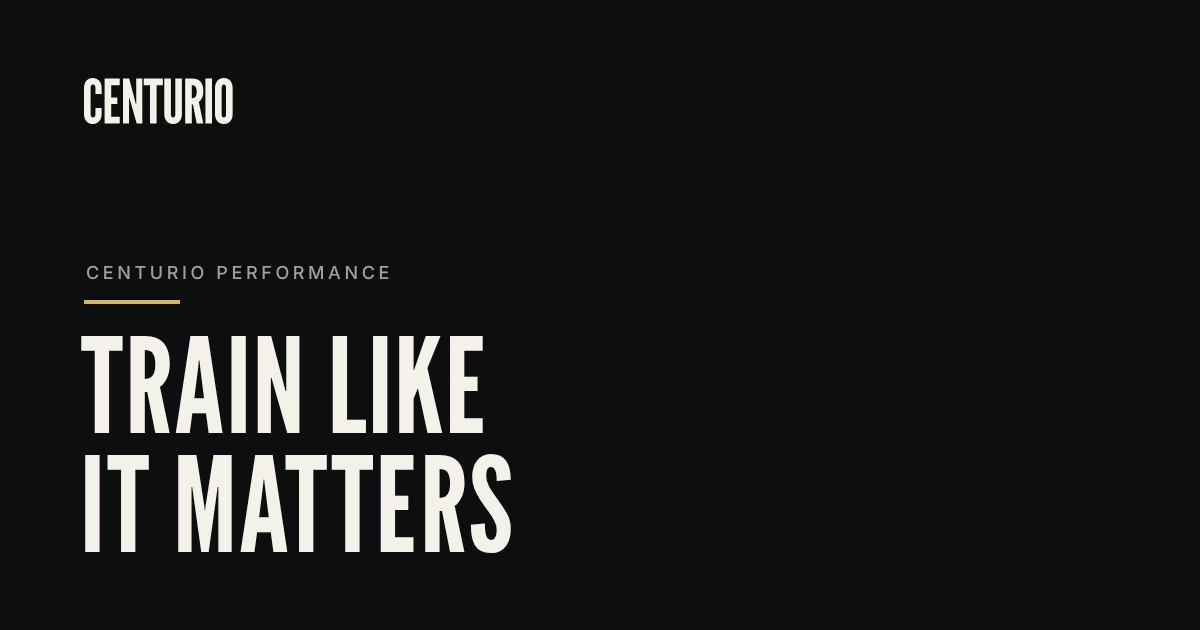
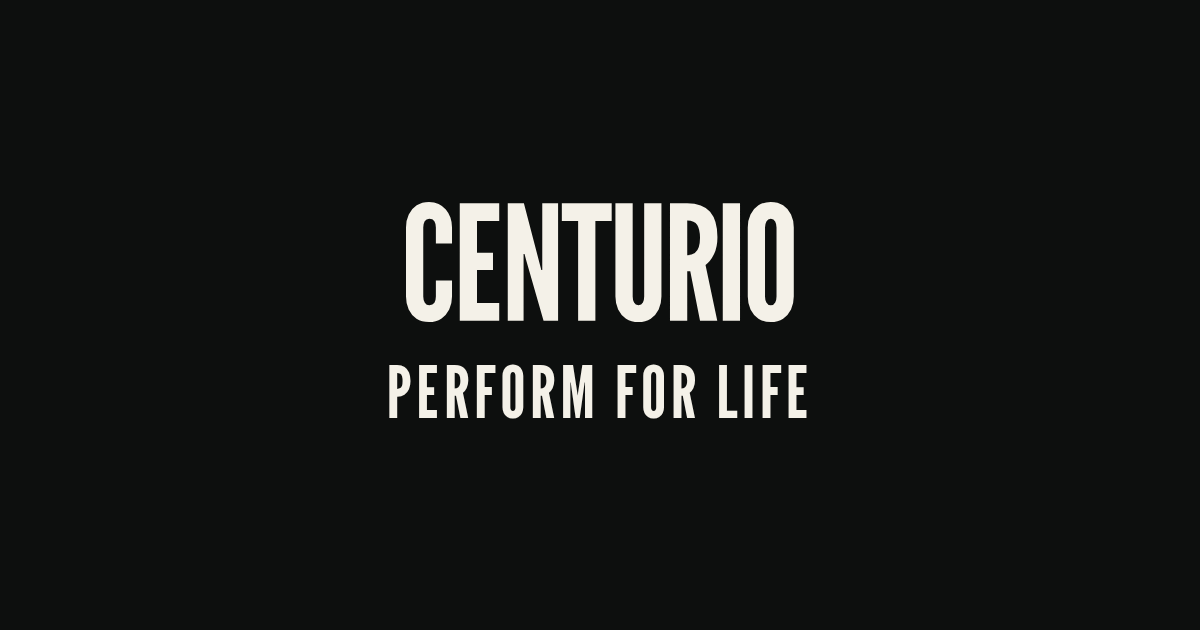
PROMPT_85: Perform for life on /performance
New hero line at the full column width, both calls to action read Find out,
the why section and gold band rewritten, the Sterling line fixed, and the
title, social tags and card carry the line. No trade mark yet. Still noindexed.

Claude-Session: https://claude.ai/code/session_011Ptxmeg7vajBp8uotk6MEU

Changed region(s): [[0.0617, 0.3016, 0.6783, 0.6937], [0.0617, 0.7238, 0.4317, 0.8746], [0.0617, 0.1206, 0.2158, 0.2111]]

diff --git a/performance.html b/performance.html
@@ -28,27 +28,27 @@ src="https://www.facebook.com/tr?id=2299379764149940&ev=PageView&noscript=1"
   gtag('config', 'G-PTXEWKVER9', { 'cookie_domain': '.centuriocollective.com' });
 </script>
 <meta name="viewport" content="width=device-width, initial-scale=1.0" />
-<title>Centurio Performance | Centurio Collective</title>
+<title>Centurio Performance. Perform for life.</title>
 <!-- PROMPT_84: not to be indexed until Sterling confirms qualifications, insurance and the
      rules on individual nutrition advice. He removes this line, nobody else. -->
 <meta name="robots" content="noindex, nofollow">
-<meta name="description" content="One to one coaching for people who are serious about what their body can do, and what their mind has to be for that to last.">
+<meta name="description" content="One to one coaching for people who want to be capable for the whole of their lives.">
 <link rel="canonical" href="https://centuriocollective.com/performance">
 <link rel="icon" href="/favicon.svg" type="image/svg+xml">
 <link rel="icon" href="/favicon-32.png" sizes="32x32" type="image/png">
 <link rel="apple-touch-icon" href="/apple-touch-icon.png">
 <meta property="og:site_name" content="Centurio Collective">
 <meta property="og:type" content="website">
-<meta property="og:title" content="Centurio Performance | Centurio Collective">
-<meta property="og:description" content="One to one coaching for people who are serious about what their body can do, and what their mind has to be for that to last.">
+<meta property="og:title" content="Centurio Performance. Perform for life.">
+<meta property="og:description" content="One to one coaching for people who want to be capable for the whole of their lives.">
 <meta property="og:url" content="https://centuriocollective.com/performance">
 <meta property="og:image" content="https://centuriocollective.com/assets/og/performance.png">
 <meta property="og:image:width" content="1200">
 <meta property="og:image:height" content="630">
-<meta property="og:image:alt" content="Centurio Performance. Train like it matters.">
+<meta property="og:image:alt" content="Centurio. Perform for life.">
 <meta name="twitter:card" content="summary_large_image">
-<meta name="twitter:title" content="Centurio Performance | Centurio Collective">
-<meta name="twitter:description" content="One to one coaching for people who are serious about what their body can do, and what their mind has to be for that to last.">
+<meta name="twitter:title" content="Centurio Performance. Perform for life.">
+<meta name="twitter:description" content="One to one coaching for people who want to be capable for the whole of their lives.">
 <meta name="twitter:image" content="https://centuriocollective.com/assets/og/performance.png">
 <link rel="preconnect" href="https://fonts.googleapis.com">
 <link rel="preconnect" href="https://fonts.gstatic.com" crossorigin>
@@ -83,7 +83,8 @@ src="https://www.facebook.com/tr?id=2299379764149940&ev=PageView&noscript=1"
      go in .hero-photo and .hero-scrim when it arrives. Until then it is type on --bg. */
   section.perf-hero{ position:relative; overflow:hidden; min-height:86vh; display:flex; align-items:flex-end; padding:0; background:var(--bg); }
   .perf-hero .hero-copy{ position:relative; z-index:2; width:100%; padding-top:140px; padding-bottom:120px; }
-  .perf-hero h1{ font-size:clamp(64px,13vw,176px); margin-top:18px; overflow-wrap:break-word; }
+  /* PERFORM FOR LIFE sets at the full width of the type column, unbroken (about 5.13em wide). */
+  .perf-hero h1{ font-size:min(calc((100vw - 48px) / 5.2), 190px); margin-top:18px; white-space:nowrap; }
   .perf-hero .lede{ margin-top:22px; font-size:clamp(17px,2vw,21px); max-width:620px; color:#e6e2d6; }
   .perf-hero .btn{ margin-top:36px; }
 
@@ -192,9 +193,9 @@ src="https://www.facebook.com/tr?id=2299379764149940&ev=PageView&noscript=1"
 <section class="perf-hero">
   <div class="wrap hero-copy">
     <div class="eyebrow">Centurio Performance</div>
-    <h1 class="display">Train like it matters</h1>
-    <p class="lede">One to one coaching for people who are serious about what their body can do, and what their mind has to be for that to last.</p>
-    <a class="btn" href="#start" onclick="gtag('event','cta_click',{location:'perf_hero'})">Start a conversation</a>
+    <h1 class="display">Perform for life</h1>
+    <p class="lede">One to one coaching for people who want to be capable for the whole of their lives. Your body is trained for that distance. So is the part of you that decides.</p>
+    <a class="btn" href="#start" onclick="gtag('event','cta_click',{location:'perf_hero'})">Find out</a>
   </div>
 </section>
 
@@ -235,10 +236,11 @@ src="https://www.facebook.com/tr?id=2299379764149940&ev=PageView&noscript=1"
 
 <section class="band-panel">
   <div class="wrap">
-    <h2>You have done the programme before. <span class="tone-accent">This is why it stopped.</span></h2>
+    <h2>Every programme works. <span class="tone-accent">The difference is who is running it.</span></h2>
     <div class="why-body">
-      <p>Every training programme works while you are running it. The reason you stopped was never the programme. It was the part of you that decides at five in the morning, and nobody has ever trained that.</p>
-      <p>Centurio measures six capacities and trains the weakest one alongside your body, a little heavier every week, for a month at a time.</p>
+      <p>The programme is the easy part. It can be written in an afternoon and there are a thousand good ones.</p>
+      <p>What decides whether you are still running it in March is the part of you that gets up when it is cold and nothing hurts enough to make you. Professionals lose it. Beginners have never built it. It is trainable, and almost nobody trains it.</p>
+      <p>So that is what gets trained here, alongside your body. Centurio measures six capacities, finds the one holding the rest down, and loads it a little heavier every week, for a month at a time. That is how a season of training turns into a life of it.</p>
       <p class="why-link"><a class="plain-link" href="/progressive-capacity">Progressive Capacity Theory</a></p>
     </div>
   </div>
@@ -250,7 +252,7 @@ src="https://www.facebook.com/tr?id=2299379764149940&ev=PageView&noscript=1"
     <div class="photo-copy">
       <div class="eyebrow">WHO YOU WOULD BE WORKING WITH</div>
       <h2>I built this on myself first.</h2>
-      <p class="photo-line">Thirteen kilos. Alcohol free. Gambling free. I was not a fit man who got fitter. I was a man who had let it all go and had to work out how to come back, and then how to make it stay.</p>
+      <p class="photo-line">Thirteen kilos. Alcohol free. Gambling free. I was a man who had let it all go, and I had to work out how to come back, and then how to make it stay.</p>
       <a class="plain-link story-link" href="/about" onclick="gtag('event','cta_click',{location:'perf_story'})">Read the full story &rarr;</a>
     </div>
   </div>
@@ -258,10 +260,10 @@ src="https://www.facebook.com/tr?id=2299379764149940&ev=PageView&noscript=1"
 
 <section class="band-gold" id="start">
   <div class="wrap">
-    <h2>Tell me what you are training for.</h2>
-    <p class="gold-line">Twenty minutes. You tell me where you are and what you want to be true. I tell you whether I can help and what it would cost.</p>
-    <a class="gold-btn" href="#booking-link-pending" target="_blank" rel="noopener noreferrer" onclick="gtag('event','perf_conversation',{location:'gold'})">Start a conversation</a>
-    <p class="gold-micro">No obligation. If I am the wrong person I will tell you on the call.</p>
+    <h2>What are you training for?</h2>
+    <p class="gold-line">It is a harder question than it looks. Ask a professional halfway through a season and watch them hesitate. Finding your answer is where every engagement starts, and it is usually the thing that changes everything after it.</p>
+    <a class="gold-btn" href="#booking-link-pending" target="_blank" rel="noopener noreferrer" onclick="gtag('event','perf_conversation',{location:'gold'})">Find out</a>
+    <p class="gold-micro">Twenty minutes, no obligation. If I am the wrong person for you I will say so on the call.</p>
   </div>
 </section>
 
